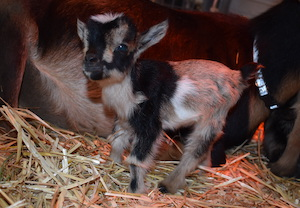
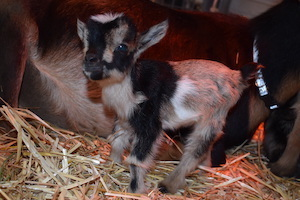
n40 photo change

diff --git a/nursery2021.html b/nursery2021.html
@@ -335,7 +335,7 @@
   </div>
   <div class="row-fluid">
     <div class="span4">
-      <img class='nursery-pic' src="img/nursery/2021/N40.JPG"><br>
+      <img class='nursery-pic' src="img/nursery/2021/N40.jpeg"><br>
       N40 - Buck<br><br>
     </div>
     <div class="span4">
